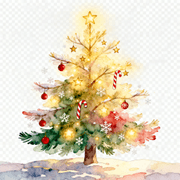
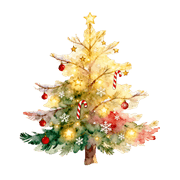
feat: Replace hero placeholder with beautiful Christmas market image
- Update hero section to use hero-placeholder.png
- Beautiful watercolor-style Christmas market scene
- Perfect match for the festive atmosphere of the event

diff --git a/src/app/page.tsx b/src/app/page.tsx
@@ -16,8 +16,8 @@ export default function Home() {
           title="Bienvenue au Marché de Noël du MPR de Nantes"
           subtitle="Du 15 au 24 décembre 2024"
           description="Découvrez la magie de Noël au cœur de Nantes avec notre marché traditionnel. Artisans locaux, produits authentiques et ambiance festive vous attendent."
-          imageSrc="/hero-placeholder.svg"
-          imageAlt="Marché de Noël MPR - Carte de Noël"
+          imageSrc="/hero-placeholder.png"
+          imageAlt="Marché de Noël MPR - Marché traditionnel dans un village de montagne enneigé"
           primaryButtonText="Voir le programme"
           primaryButtonHref="/programme"
           secondaryButtonText="Découvrir la boutique"
